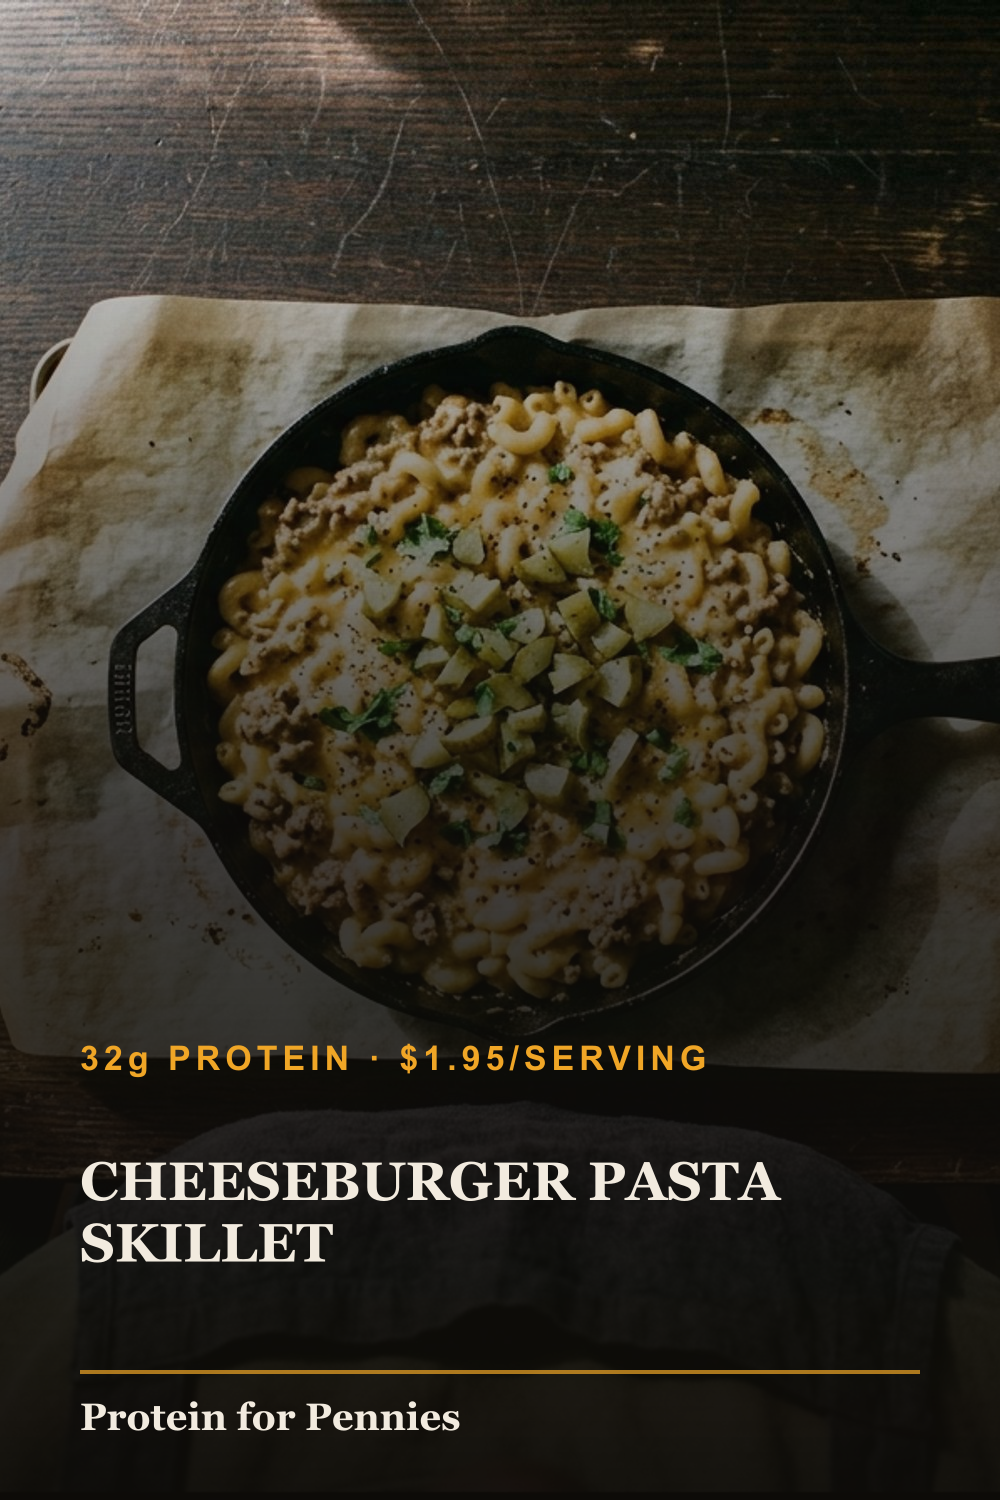
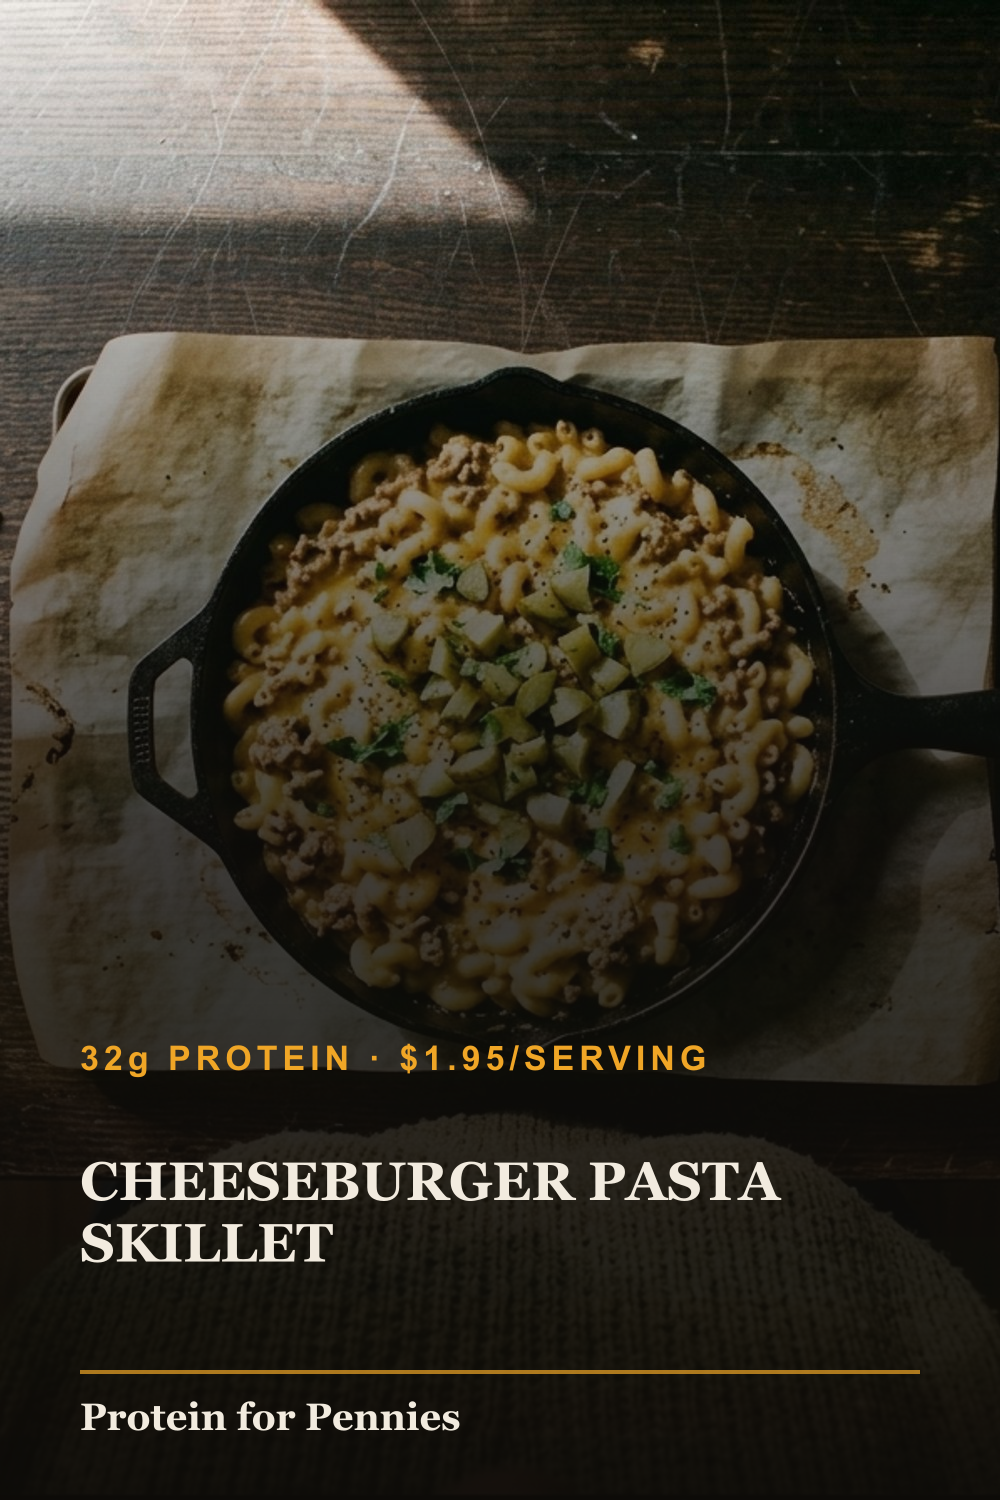
Live URL in docs + teaser/pin queues point at GitHub Pages

diff --git a/DEPLOY.md b/DEPLOY.md
@@ -1,8 +1,15 @@
 # DEPLOY — go-live checklist
 
-Order matters. Steps marked **[Claus]** need your accounts/logins; everything else is done.
+## ✅ DONE 2026-09-27: Live på GitHub Pages
 
-## 1. Domain **[Claus]**
+- **Live URL: https://mohnsen12.github.io/protein-for-pennies/** (gratis, auto-deploy)
+- Repo: `github.com/mohnsen12/protein-for-pennies` — push til `main` = deploy
+  (GitHub Action: static export m. basePath `/protein-for-pennies`)
+- Ønskes kortere URL senere: tilføj domæne (trin 1) i Pages-settings, eller
+  flyt hosting til Vercel (forbind repo'et) når paywall-fasen starter — Vercel
+  kræver at `output: "export"`/`GITHUB_PAGES` ikke er sat (håndteres af config).
+
+## 1. Domain **[Claus]** (valgfrit nu, nødvendigt før betalingsmur-ads)
 Buy the domain (~$10/year at Namecheap/Porkbun/Cloudflare). Candidates in order:
 1. `proteinforpennies.com` (first choice — matches brand)
 2. `proteinforpennies.net`
